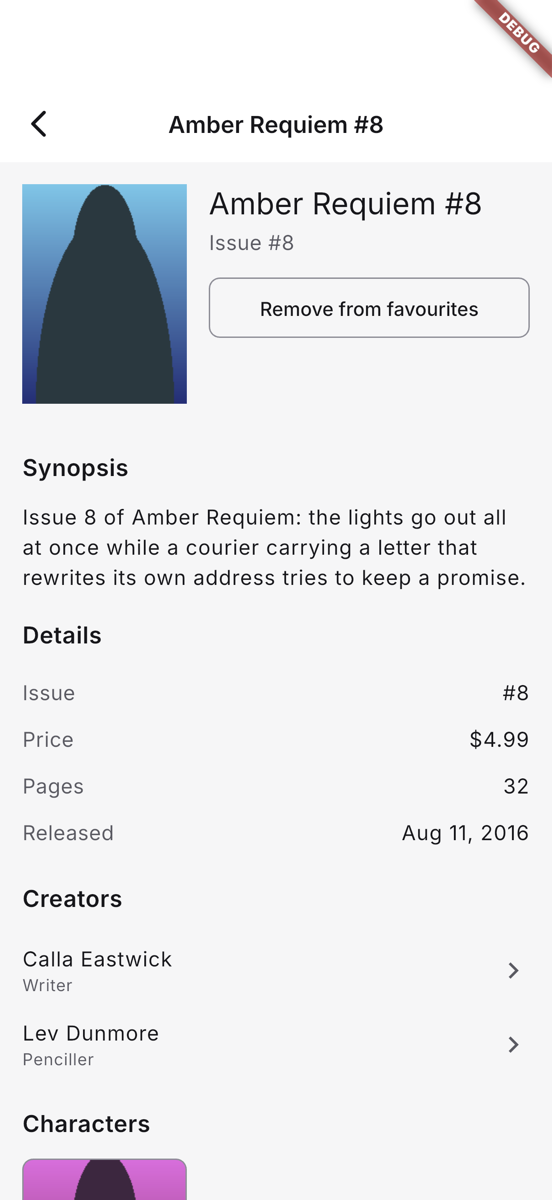
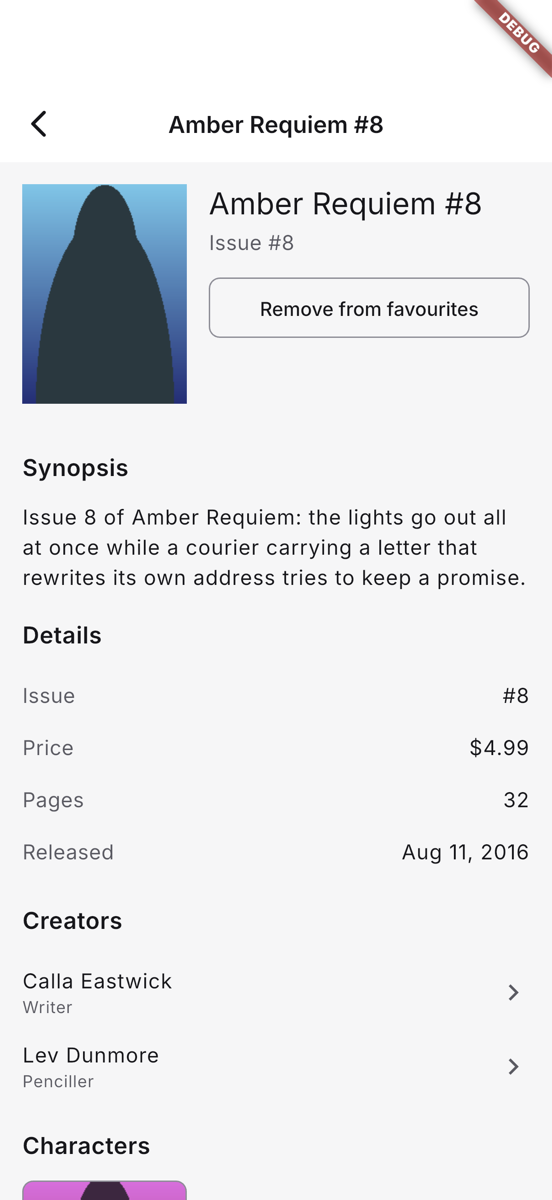
T-0041: Fix the Verifier FAIL: no write after a session change during the post-sign-in read; sheet and toggle pins; bus reload; covers; T-0042 globs

diff --git a/documents/tasks/T-0041-comics-details-exemplar.md b/documents/tasks/T-0041-comics-details-exemplar.md
@@ -180,3 +180,24 @@ New generic steps (`mc_test_steps`): `the backend received {route} with the bear
 **Mutations:** final full run **43 of 43 killed by a failing test**, none by a compile error ([mutations.log](../evidence/T-0041/engineer/mutations.log)): the 28 earlier ones (texts updated where the code moved; the cast-404 mutation, whose behaviour is gone, became the comic's double-Retry guard) plus 15 for this round. Along the way R1-a first survived (Flutter's material localizations load the date data, item 1) and R8-d first survived (the read had not been sent behind the hold); both are killed by the tests added for them.
 
 **For the TL:** T-0042 is not on `origin/main` at `0d395d8`, so the `MC_GENERATED_DART` glob exclusion (comics_details, publishing_wiring and the new mc_formatters test target) and `T-0042-AC4_safety.sh` are still to do: sequence T-0042 first, or I apply it after it lands.
+
+## Fix round (Verifier FAIL `8e66e8b`, one Medium AC6 defect)
+Brought in the report (`git merge --ff-only 8e66e8b`), then merged `origin/main` `0d53941` (T-0042 `tool/ide_sync`); no lock changed (`fvm flutter pub get --offline` left both as they were). Every fix has a `T-0041-ACn` test that fails without it and a mutation (F1 to F6).
+
+| # | Fix | Tests |
+|---|---|---|
+| 1 | After `requestSignIn()` → true, the re-read checks `_session.epoch == epoch` before anything else; if the session changed it stops (no PUT, no DELETE) and the tap's ending reloads for the current session. `_shownEpoch` is set only after the check | BDD (the Verifier's P3, P4 turned into the fixed behaviour): "A sign-out during the read after sign-in writes nothing" (0 PUT, 0 DELETE, signed out, Add), "Another user signing in during the read after sign-in gets no write" (0 PUT/DELETE, 2 GETs: the stale one and the collector's, Add, neither user has it). P1, P2 and P5 are committed as scenarios too ("A sign-out during an in-flight write ...", "Taps during a token refresh send no second write", "A switch to another user elsewhere ..."). F1 |
+| 2 | The sheet's Not now is pinned disabled while signing in | `routes_test` "... while signing in, the barrier and Back do not close the sheet" now asserts Not now `enabled == false` and taps it. F2 (= Verifier V14) |
+| 3 | The sheet cannot be dragged while signing in: its content claims vertical drags while busy (a `GestureDetector`, so the bottom sheet's own drag recogniser loses the arena) | the same test drags the sheet down 600 px for real and it stays; control "idle, a drag down dismisses the sheet and answers false". F3 |
+| 4 | The favourite button is pinned disabled while saving and while signing in | generic step `the button {label} is disabled` in "Signed in, the toggle flips at once ..." (held PUT) and the signed-out save scenario. F4 (= Verifier V12) |
+| 5 | The favourite bloc listens to `DataChanged('favourites')` and reads the flag again; its own announcements are counted and skipped, so a write costs no extra read | BDD "Two pages of the same comic agree after one of them writes": page 2 shows Remove after page 1's write, 1 PUT, 3 GETs (2 opens + page 2's reload; not 4). F5-a, F5-b |
+| 6 | `RelatedComic.cover` is shown (a 36x48 thumbnail leading each related-comics row): the field earns its place, and a cover makes a comic recognisable at a glance. `comic_facts.dart`'s `vertical: 6` is `McSpacing.sm` | `I see the related comics of` checks each row draws its comic's bundled cover; the T-0032 preview step is anchored to a new `characterPreviewArtKey` (it counted every `Image` in the preview; just as strict). F6-a, F6-b (golden) |
+
+**Goldens changed (3, all looked at; before/after in `documents/evidence/T-0041/engineer/goldens/fix-round/`):** `characters_list/.../character_preview.png` (the cover thumbnails), `comics_details/.../comic_details_top.png` and `comic_details_bottom.png` (facts rows 8 px instead of 6 px of vertical padding). The other 6 are unchanged.
+
+**T-0042:** `MC_GENERATED_DART` now excludes generated files from the globs of `comics_details` (both), `publishing_wiring`, and the library globs of `mc_formatters`, `app_core`, `mc_fixtures_characters` and `mc_fixtures_comics` (their test targets take explicit `main` files, no glob). `tool/ide_sync --env dev` (36 files) then [`T-0042-AC4_safety.sh`](../evidence/T-0041/engineer/T-0042-AC4_safety.md) **PASS**: the synced tree ran **0 actions and 0 tests** (Executed 0 out of 111), 62,676 outputs byte-identical, every negative control fired; `tool/ide_sync --clean` removed all 72 files.
+
+**Results:** gates [PASS](../evidence/T-0041/engineer/T-0041-AC8_gates.md) on the merged tree (111/111; byte identity comics_details 12/12, characters_list 14/14; cutoff both; coverage comics_details 388/388, publishing_wiring 95/95, characters_list 221/221, universe_wiring 39/39, mc_formatters 29/29). Mutations **51 of 51 killed** by a failing test ([log](../evidence/T-0041/engineer/mutations.log)). e2e on a fresh `mc-T-0041-engineer-44533` (deleted): 3 of 3 PASS.
+
+**Test integrity:** no test deleted, skipped or weakened; no `// ignore:`. Changed: the T-0032 preview art step now finds the art by key (the preview has more images now).
+

diff --git a/documents/findings/F-0040-section-detail-exemplar.md b/documents/findings/F-0040-section-detail-exemplar.md
@@ -46,3 +46,9 @@
 18. **The favourite follows the session.** The bloc listens to `SessionReader.authState`: a sign-in elsewhere reloads the flag for that user, a sign-out (a rejected refresh included) shows "not a favourite". It records the session epoch its state belongs to, so its own tap's sign-in does not trigger a second read, and a change during a tap is applied when the tap settles. After `requestSignIn()` returns true it reads the flag for the new session first: a user who already has the comic gets no write. A new `signingIn` state replaces `ready(saving: true)` during the sign-in.
 19. **`RecordedRequest.headers`.** The harness records each request's headers as the adapter sees them, after every interceptor, so the generic step `the backend received {route} with the bearer of {user}` replaces the feature's recording interceptor.
 20. **A rejected refresh in a widget test needs real time.** The auth interceptor awaits the session's sign-out, a real file write; the generic step `the app finishes writing to storage` alternates `runAsync` and pumps so the write, and the failed request after it, complete.
+
+## Fix round (Verifier FAIL `8e66e8b`)
+21. **Every await is a session boundary.** A read started for one session can finish under another (a sign-out, a different user). The favourite bloc compares the session epoch after each await that precedes a decision (the flag read in `_load`, and the read after `requestSignIn()`), and acts only if it is unchanged; otherwise it lets the next load decide. The bricks should treat any "await, then write" in a session-dependent bloc the same way.
+22. **A bottom sheet cannot change `enableDrag` after it shows.** To refuse a drag only while busy, the sheet's content claims vertical drags (`GestureDetector(onVerticalDragStart: ...)`), which wins the gesture arena over the sheet's own recogniser. A real `tester.drag` proves it; a direct `Navigator.pop` does not.
+23. **A bloc that announces on the bus hears itself.** `EventBus` delivers each event to every subscriber, its publisher included, so a bloc that reloads on `DataChanged` counts its own announcements and skips them; otherwise every write costs an extra read (pinned by a request count).
+

diff --git a/documents/evidence/T-0041/engineer/mini_client/e2e-summary.md b/documents/evidence/T-0041/engineer/mini_client/e2e-summary.md
@@ -8,19 +8,19 @@
 | Project | `/tmp/mc-T-0041-engineer-e2e/app/mini_client` |
 | Device | iPhone 17 Pro (`com.apple.CoreSimulator.SimDeviceType.iPhone-17-Pro`) |
 | Runtime | iOS 26.2 (`com.apple.CoreSimulator.SimRuntime.iOS-26-2`) |
-| Simulator | `mc-T-0041-engineer-15540` |
-| Simulator UDID | `E61E6575-B51C-43CE-98E8-0E50EB6C62AF` |
+| Simulator | `mc-T-0041-engineer-44533` |
+| Simulator UDID | `86E3905C-DD4A-4DE7-A85C-F7F17BB35243` |
 | Runner | `fvm flutter drive --driver={driver} --target={target} -d {udid}` |
-| Started | 2026-11-26T18:43:37Z |
-| Finished | 2026-11-26T18:45:48Z |
+| Started | 2026-11-26T19:29:20Z |
+| Finished | 2026-11-26T19:31:21Z |
 
 ## Targets
 
 | Target | Result | Duration | Log |
 |---|---|---|---|
-| `integration_test/comics_journey_test.dart` | PASS | 50 s | [e2e-comics_journey_test.log](e2e-comics_journey_test.log) |
-| `integration_test/comic_deeplink_test.dart` | PASS | 32 s | [e2e-comic_deeplink_test.log](e2e-comic_deeplink_test.log) |
-| `integration_test/characters_journey_test.dart` | PASS | 28 s | [e2e-characters_journey_test.log](e2e-characters_journey_test.log) |
+| `integration_test/comics_journey_test.dart` | PASS | 53 s | [e2e-comics_journey_test.log](e2e-comics_journey_test.log) |
+| `integration_test/comic_deeplink_test.dart` | PASS | 27 s | [e2e-comic_deeplink_test.log](e2e-comic_deeplink_test.log) |
+| `integration_test/characters_journey_test.dart` | PASS | 23 s | [e2e-characters_journey_test.log](e2e-characters_journey_test.log) |
 
 ## Screenshots
 

diff --git a/documents/evidence/T-0041/engineer/T-0041-AC8_gates.md b/documents/evidence/T-0041/engineer/T-0041-AC8_gates.md
@@ -20,7 +20,7 @@
 | T-0032-AC6_generated_not_committed | PASS |
 | coverage >= 90 % (touched packages) | PASS |
 
-- tests: Executed 1 out of 111 tests: 111 tests pass.
+- tests: Executed 0 out of 111 tests: 111 tests pass.
 - coverage: == feature/comics/comics_details TOTAL 388/388 100.0% == app/wiring/publishing_wiring TOTAL 95/95 100.0% == feature/characters/characters_list TOTAL 221/221 100.0% == app/wiring/universe_wiring TOTAL 39/39 100.0% == utility/mc_formatters TOTAL 29/29 100.0% == utility/mc_fixtures_comics TOTAL 244/247 98.8% == utility/mc_fixtures_characters TOTAL 126/130 96.9% (threshold 90 %)
 
 **PASS T-0041-AC8-gates**
